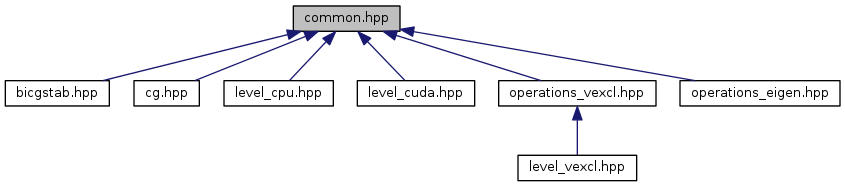
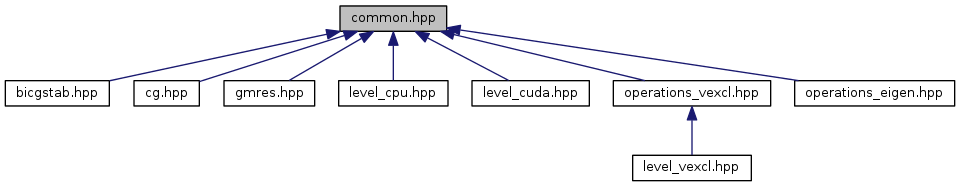
doc update

diff --git a/files.html b/files.html
@@ -54,21 +54,22 @@
 <tr id="row_3_"><td class="entry"><img src="ftv2node.png" alt="o" width="16" height="22" /><img src="ftv2doc.png" alt="*" width="24" height="22" /><a class="el" href="bicgstab_8hpp.html" target="_self">bicgstab.hpp</a></td><td class="desc">Stabilized BiConjugate Gradient method</td></tr>
 <tr id="row_4_" class="even"><td class="entry"><img src="ftv2node.png" alt="o" width="16" height="22" /><img src="ftv2doc.png" alt="*" width="24" height="22" /><a class="el" href="cg_8hpp.html" target="_self">cg.hpp</a></td><td class="desc">Conjugate Gradient method</td></tr>
 <tr id="row_5_"><td class="entry"><img src="ftv2node.png" alt="o" width="16" height="22" /><img src="ftv2doc.png" alt="*" width="24" height="22" /><a class="el" href="common_8hpp.html" target="_self">common.hpp</a></td><td class="desc">Common definitions for amgcl</td></tr>
-<tr id="row_6_" class="even"><td class="entry"><img src="ftv2node.png" alt="o" width="16" height="22" /><img src="ftv2doc.png" alt="*" width="24" height="22" /><a class="el" href="interp__aggr_8hpp.html" target="_self">interp_aggr.hpp</a></td><td class="desc">Aggregates-based interpolation scheme</td></tr>
-<tr id="row_7_"><td class="entry"><img src="ftv2node.png" alt="o" width="16" height="22" /><img src="ftv2doc.png" alt="*" width="24" height="22" /><a class="el" href="interp__classic_8hpp.html" target="_self">interp_classic.hpp</a></td><td class="desc">Direct interpolation scheme based on <a class="el" href="index.html#Stuben_1999">Stuben (1999)</a></td></tr>
-<tr id="row_8_" class="even"><td class="entry"><img src="ftv2node.png" alt="o" width="16" height="22" /><img src="ftv2doc.png" alt="*" width="24" height="22" /><a class="el" href="interp__sa__emin_8hpp.html" target="_self">interp_sa_emin.hpp</a></td><td class="desc">Interpolation scheme based on smoothed aggregation with energy minimization</td></tr>
-<tr id="row_9_"><td class="entry"><img src="ftv2node.png" alt="o" width="16" height="22" /><img src="ftv2doc.png" alt="*" width="24" height="22" /><a class="el" href="interp__smoothed__aggr_8hpp.html" target="_self">interp_smoothed_aggr.hpp</a></td><td class="desc">Interpolation scheme based on smoothed aggregation</td></tr>
-<tr id="row_10_" class="even"><td class="entry"><img src="ftv2node.png" alt="o" width="16" height="22" /><img src="ftv2doc.png" alt="*" width="24" height="22" /><a class="el" href="level__cpu_8hpp.html" target="_self">level_cpu.hpp</a></td><td class="desc">Level of an AMG hierarchy for use with arrays located in main (CPU) memory</td></tr>
-<tr id="row_11_"><td class="entry"><img src="ftv2node.png" alt="o" width="16" height="22" /><img src="ftv2doc.png" alt="*" width="24" height="22" /><a class="el" href="level__cuda_8hpp.html" target="_self">level_cuda.hpp</a></td><td class="desc">Level of an AMG hierarchy for use with Thrust/CUSPARSE combination. Only supports standalone solution for now</td></tr>
-<tr id="row_12_" class="even"><td class="entry"><img src="ftv2node.png" alt="o" width="16" height="22" /><img src="ftv2doc.png" alt="*" width="24" height="22" /><a class="el" href="level__params_8hpp.html" target="_self">level_params.hpp</a></td><td class="desc">Common parameters for level construction/solution</td></tr>
-<tr id="row_13_"><td class="entry"><img src="ftv2node.png" alt="o" width="16" height="22" /><img src="ftv2doc.png" alt="*" width="24" height="22" /><a class="el" href="level__vexcl_8hpp.html" target="_self">level_vexcl.hpp</a></td><td class="desc">Level of an AMG hierarchy for use with VexCL vectors</td></tr>
-<tr id="row_14_" class="even"><td class="entry"><img src="ftv2node.png" alt="o" width="16" height="22" /><img src="ftv2doc.png" alt="*" width="24" height="22" /><a class="el" href="operations__eigen_8hpp.html" target="_self">operations_eigen.hpp</a></td><td class="desc">Adaptors for Eigen types</td></tr>
-<tr id="row_15_"><td class="entry"><img src="ftv2node.png" alt="o" width="16" height="22" /><img src="ftv2doc.png" alt="*" width="24" height="22" /><a class="el" href="operations__vexcl_8hpp.html" target="_self">operations_vexcl.hpp</a></td><td class="desc">Adaptors for VexCL types</td></tr>
-<tr id="row_16_" class="even"><td class="entry"><img src="ftv2node.png" alt="o" width="16" height="22" /><img src="ftv2doc.png" alt="*" width="24" height="22" /><a class="el" href="operations__viennacl_8hpp.html" target="_self">operations_viennacl.hpp</a></td><td class="desc">Adaptors for ViennaCL types</td></tr>
-<tr id="row_17_"><td class="entry"><img src="ftv2node.png" alt="o" width="16" height="22" /><img src="ftv2doc.png" alt="*" width="24" height="22" /><a class="el" href="profiler_8hpp.html" target="_self">profiler.hpp</a></td><td class="desc">Profiler class</td></tr>
-<tr id="row_18_" class="even"><td class="entry"><img src="ftv2node.png" alt="o" width="16" height="22" /><img src="ftv2doc.png" alt="*" width="24" height="22" /><a class="el" href="spai_8hpp.html" target="_self">spai.hpp</a></td><td class="desc">Compute Sparse Approximate Inverse for a given matrix</td></tr>
-<tr id="row_19_"><td class="entry"><img src="ftv2node.png" alt="o" width="16" height="22" /><img src="ftv2doc.png" alt="*" width="24" height="22" /><a class="el" href="spmat_8hpp.html" target="_self">spmat.hpp</a></td><td class="desc">A set of routines to work with sparse matrices in CRS format</td></tr>
-<tr id="row_20_" class="even"><td class="entry"><img src="ftv2lastnode.png" alt="\" width="16" height="22" /><img src="ftv2doc.png" alt="*" width="24" height="22" /><a class="el" href="tictoc_8hpp.html" target="_self">tictoc.hpp</a></td><td class="desc">TIC and TOC macros for internal profiling</td></tr>
+<tr id="row_6_" class="even"><td class="entry"><img src="ftv2node.png" alt="o" width="16" height="22" /><img src="ftv2doc.png" alt="*" width="24" height="22" /><a class="el" href="gmres_8hpp.html" target="_self">gmres.hpp</a></td><td class="desc">GMRES method</td></tr>
+<tr id="row_7_"><td class="entry"><img src="ftv2node.png" alt="o" width="16" height="22" /><img src="ftv2doc.png" alt="*" width="24" height="22" /><a class="el" href="interp__aggr_8hpp.html" target="_self">interp_aggr.hpp</a></td><td class="desc">Aggregates-based interpolation scheme</td></tr>
+<tr id="row_8_" class="even"><td class="entry"><img src="ftv2node.png" alt="o" width="16" height="22" /><img src="ftv2doc.png" alt="*" width="24" height="22" /><a class="el" href="interp__classic_8hpp.html" target="_self">interp_classic.hpp</a></td><td class="desc">Direct interpolation scheme based on <a class="el" href="index.html#Stuben_1999">Stuben (1999)</a></td></tr>
+<tr id="row_9_"><td class="entry"><img src="ftv2node.png" alt="o" width="16" height="22" /><img src="ftv2doc.png" alt="*" width="24" height="22" /><a class="el" href="interp__sa__emin_8hpp.html" target="_self">interp_sa_emin.hpp</a></td><td class="desc">Interpolation scheme based on smoothed aggregation with energy minimization</td></tr>
+<tr id="row_10_" class="even"><td class="entry"><img src="ftv2node.png" alt="o" width="16" height="22" /><img src="ftv2doc.png" alt="*" width="24" height="22" /><a class="el" href="interp__smoothed__aggr_8hpp.html" target="_self">interp_smoothed_aggr.hpp</a></td><td class="desc">Interpolation scheme based on smoothed aggregation</td></tr>
+<tr id="row_11_"><td class="entry"><img src="ftv2node.png" alt="o" width="16" height="22" /><img src="ftv2doc.png" alt="*" width="24" height="22" /><a class="el" href="level__cpu_8hpp.html" target="_self">level_cpu.hpp</a></td><td class="desc">Level of an AMG hierarchy for use with arrays located in main (CPU) memory</td></tr>
+<tr id="row_12_" class="even"><td class="entry"><img src="ftv2node.png" alt="o" width="16" height="22" /><img src="ftv2doc.png" alt="*" width="24" height="22" /><a class="el" href="level__cuda_8hpp.html" target="_self">level_cuda.hpp</a></td><td class="desc">Level of an AMG hierarchy for use with Thrust/CUSPARSE combination. Only supports standalone solution for now</td></tr>
+<tr id="row_13_"><td class="entry"><img src="ftv2node.png" alt="o" width="16" height="22" /><img src="ftv2doc.png" alt="*" width="24" height="22" /><a class="el" href="level__params_8hpp.html" target="_self">level_params.hpp</a></td><td class="desc">Common parameters for level construction/solution</td></tr>
+<tr id="row_14_" class="even"><td class="entry"><img src="ftv2node.png" alt="o" width="16" height="22" /><img src="ftv2doc.png" alt="*" width="24" height="22" /><a class="el" href="level__vexcl_8hpp.html" target="_self">level_vexcl.hpp</a></td><td class="desc">Level of an AMG hierarchy for use with VexCL vectors</td></tr>
+<tr id="row_15_"><td class="entry"><img src="ftv2node.png" alt="o" width="16" height="22" /><img src="ftv2doc.png" alt="*" width="24" height="22" /><a class="el" href="operations__eigen_8hpp.html" target="_self">operations_eigen.hpp</a></td><td class="desc">Adaptors for Eigen types</td></tr>
+<tr id="row_16_" class="even"><td class="entry"><img src="ftv2node.png" alt="o" width="16" height="22" /><img src="ftv2doc.png" alt="*" width="24" height="22" /><a class="el" href="operations__vexcl_8hpp.html" target="_self">operations_vexcl.hpp</a></td><td class="desc">Adaptors for VexCL types</td></tr>
+<tr id="row_17_"><td class="entry"><img src="ftv2node.png" alt="o" width="16" height="22" /><img src="ftv2doc.png" alt="*" width="24" height="22" /><a class="el" href="operations__viennacl_8hpp.html" target="_self">operations_viennacl.hpp</a></td><td class="desc">Adaptors for ViennaCL types</td></tr>
+<tr id="row_18_" class="even"><td class="entry"><img src="ftv2node.png" alt="o" width="16" height="22" /><img src="ftv2doc.png" alt="*" width="24" height="22" /><a class="el" href="profiler_8hpp.html" target="_self">profiler.hpp</a></td><td class="desc">Profiler class</td></tr>
+<tr id="row_19_"><td class="entry"><img src="ftv2node.png" alt="o" width="16" height="22" /><img src="ftv2doc.png" alt="*" width="24" height="22" /><a class="el" href="spai_8hpp.html" target="_self">spai.hpp</a></td><td class="desc">Compute Sparse Approximate Inverse for a given matrix</td></tr>
+<tr id="row_20_" class="even"><td class="entry"><img src="ftv2node.png" alt="o" width="16" height="22" /><img src="ftv2doc.png" alt="*" width="24" height="22" /><a class="el" href="spmat_8hpp.html" target="_self">spmat.hpp</a></td><td class="desc">A set of routines to work with sparse matrices in CRS format</td></tr>
+<tr id="row_21_"><td class="entry"><img src="ftv2lastnode.png" alt="\" width="16" height="22" /><img src="ftv2doc.png" alt="*" width="24" height="22" /><a class="el" href="tictoc_8hpp.html" target="_self">tictoc.hpp</a></td><td class="desc">TIC and TOC macros for internal profiling</td></tr>
 </table>
 </div><!-- directory -->
 </div><!-- contents -->

diff --git a/gmres_8hpp.html b/gmres_8hpp.html
@@ -3,7 +3,7 @@
 <head>
 <meta http-equiv="Content-Type" content="text/xhtml;charset=UTF-8"/>
 <meta http-equiv="X-UA-Compatible" content="IE=9"/>
-<title>amgcl: cg.hpp File Reference</title>
+<title>amgcl: gmres.hpp File Reference</title>
 <link href="tabs.css" rel="stylesheet" type="text/css"/>
 <script type="text/javascript" src="jquery.js"></script>
 <script type="text/javascript" src="dynsections.js"></script>
@@ -50,22 +50,24 @@
 <a href="#namespaces">Namespaces</a> &#124;
 <a href="#func-members">Functions</a>  </div>
   <div class="headertitle">
-<div class="title">cg.hpp File Reference</div>  </div>
+<div class="title">gmres.hpp File Reference</div>  </div>
 </div><!--header-->
 <div class="contents">
 
-<p>Conjugate Gradient method.  
+<p>GMRES method.  
 <a href="#details">More...</a></p>
 <div class="textblock"><code>#include &lt;utility&gt;</code><br/>
+<code>#include &lt;algorithm&gt;</code><br/>
+<code>#include &lt;boost/array.hpp&gt;</code><br/>
 <code>#include &lt;<a class="el" href="common_8hpp.html">amgcl/common.hpp</a>&gt;</code><br/>
 </div><div class="textblock"><div id="dynsection-0" onclick="return toggleVisibility(this)" class="dynheader closed" style="cursor:pointer;">
-  <img id="dynsection-0-trigger" src="closed.png" alt="+"/> Include dependency graph for cg.hpp:</div>
+  <img id="dynsection-0-trigger" src="closed.png" alt="+"/> Include dependency graph for gmres.hpp:</div>
 <div id="dynsection-0-summary" class="dynsummary" style="display:block;">
 </div>
 <div id="dynsection-0-content" class="dyncontent" style="display:none;">
-<div class="center"><img src="cg_8hpp__incl.png" border="0" usemap="#cg_8hpp" alt=""/></div>
-<map name="cg_8hpp" id="cg_8hpp">
-<area shape="rect" id="node5" href="common_8hpp.html" title="Common definitions for amgcl." alt="" coords="86,80,236,107"/></map>
+<div class="center"><img src="gmres_8hpp__incl.png" border="0" usemap="#gmres_8hpp" alt=""/></div>
+<map name="gmres_8hpp" id="gmres_8hpp">
+<area shape="rect" id="node9" href="common_8hpp.html" title="Common definitions for amgcl." alt="" coords="338,80,488,107"/></map>
 </div>
 </div><table class="memberdecls">
 <tr class="heading"><td colspan="2"><h2 class="groupheader"><a name="namespaces"></a>
@@ -76,14 +78,26 @@ Namespaces</h2></td></tr>
 </table><table class="memberdecls">
 <tr class="heading"><td colspan="2"><h2 class="groupheader"><a name="func-members"></a>
 Functions</h2></td></tr>
-<tr class="memitem:gac8e0c3c1ec4fdac25537aa7d20c008fd"><td class="memTemplParams" colspan="2">template&lt;class matrix , class vector , class precond &gt; </td></tr>
-<tr class="memitem:gac8e0c3c1ec4fdac25537aa7d20c008fd"><td class="memTemplItemLeft" align="right" valign="top">std::pair&lt; int, typename <br class="typebreak"/>
-value_type&lt; vector &gt;::type &gt;&#160;</td><td class="memTemplItemRight" valign="bottom"><a class="el" href="group__iterative.html#gac8e0c3c1ec4fdac25537aa7d20c008fd">amgcl::solve</a> (const matrix &amp;A, const vector &amp;rhs, const precond &amp;P, vector &amp;x, cg_tag prm=cg_tag())</td></tr>
-<tr class="memdesc:gac8e0c3c1ec4fdac25537aa7d20c008fd"><td class="mdescLeft">&#160;</td><td class="mdescRight">Conjugate Gradient method.  <a href="group__iterative.html#gac8e0c3c1ec4fdac25537aa7d20c008fd"></a><br/></td></tr>
-<tr class="separator:gac8e0c3c1ec4fdac25537aa7d20c008fd"><td class="memSeparator" colspan="2">&#160;</td></tr>
+<tr class="memitem:a8e76dd3073249343cf6d710dbeb41737"><td class="memTemplParams" colspan="2"><a class="anchor" id="a8e76dd3073249343cf6d710dbeb41737"></a>
+template&lt;typename value_t &gt; </td></tr>
+<tr class="memitem:a8e76dd3073249343cf6d710dbeb41737"><td class="memTemplItemLeft" align="right" valign="top">void&#160;</td><td class="memTemplItemRight" valign="bottom"><b>amgcl::gmres::apply_plane_rotation</b> (value_t &amp;dx, value_t &amp;dy, value_t cs, value_t sn)</td></tr>
+<tr class="separator:a8e76dd3073249343cf6d710dbeb41737"><td class="memSeparator" colspan="2">&#160;</td></tr>
+<tr class="memitem:a19f01f3c965331090757d14db060d7f8"><td class="memTemplParams" colspan="2"><a class="anchor" id="a19f01f3c965331090757d14db060d7f8"></a>
+template&lt;typename value_t &gt; </td></tr>
+<tr class="memitem:a19f01f3c965331090757d14db060d7f8"><td class="memTemplItemLeft" align="right" valign="top">void&#160;</td><td class="memTemplItemRight" valign="bottom"><b>amgcl::gmres::generate_plane_rotation</b> (value_t dx, value_t dy, value_t &amp;cs, value_t &amp;sn)</td></tr>
+<tr class="separator:a19f01f3c965331090757d14db060d7f8"><td class="memSeparator" colspan="2">&#160;</td></tr>
+<tr class="memitem:a57d496e8d0d1149fb1ed25f4b593c79f"><td class="memTemplParams" colspan="2"><a class="anchor" id="a57d496e8d0d1149fb1ed25f4b593c79f"></a>
+template&lt;size_t M, class vector &gt; </td></tr>
+<tr class="memitem:a57d496e8d0d1149fb1ed25f4b593c79f"><td class="memTemplItemLeft" align="right" valign="top">void&#160;</td><td class="memTemplItemRight" valign="bottom"><b>amgcl::gmres::update</b> (vector &amp;x, int k, boost::array&lt; boost::array&lt; typename value_type&lt; vector &gt;::type, M &gt;, M+1 &gt; &amp;h, const boost::array&lt; typename value_type&lt; vector &gt;::type, M+1 &gt; &amp;s, const boost::array&lt; vector, M+1 &gt; &amp;v, boost::array&lt; typename value_type&lt; vector &gt;::type, M+1 &gt; &amp;y)</td></tr>
+<tr class="separator:a57d496e8d0d1149fb1ed25f4b593c79f"><td class="memSeparator" colspan="2">&#160;</td></tr>
+<tr class="memitem:ga9854844427f73aac87036586dc7c62d0"><td class="memTemplParams" colspan="2">template&lt;size_t M, class matrix , class vector , class precond &gt; </td></tr>
+<tr class="memitem:ga9854844427f73aac87036586dc7c62d0"><td class="memTemplItemLeft" align="right" valign="top">std::pair&lt; int, typename <br class="typebreak"/>
+value_type&lt; vector &gt;::type &gt;&#160;</td><td class="memTemplItemRight" valign="bottom"><a class="el" href="group__iterative.html#ga9854844427f73aac87036586dc7c62d0">amgcl::solve</a> (const matrix &amp;A, const vector &amp;rhs, const precond &amp;P, vector &amp;x, gmres_tag&lt; M &gt; prm=gmres_tag&lt; M &gt;())</td></tr>
+<tr class="memdesc:ga9854844427f73aac87036586dc7c62d0"><td class="mdescLeft">&#160;</td><td class="mdescRight">GMRES method.  <a href="group__iterative.html#ga9854844427f73aac87036586dc7c62d0"></a><br/></td></tr>
+<tr class="separator:ga9854844427f73aac87036586dc7c62d0"><td class="memSeparator" colspan="2">&#160;</td></tr>
 </table>
 <a name="details" id="details"></a><h2 class="groupheader">Detailed Description</h2>
-<div class="textblock"><p>Conjugate Gradient method. </p>
+<div class="textblock"><p>GMRES method. </p>
 <dl class="section author"><dt>Author</dt><dd>Denis Demidov <a href="#" onclick="location.href='mai'+'lto:'+'dde'+'mi'+'dov'+'@k'+'su.'+'ru'; return false;">ddemi<span style="display: none;">.nosp@m.</span>dov@<span style="display: none;">.nosp@m.</span>ksu.r<span style="display: none;">.nosp@m.</span>u</a> Implementation is based on <a class="el" href="index.html#Templates_1994">Barrett (1994)</a> </dd></dl>
 </div></div><!-- contents -->
 <!-- start footer part -->

diff --git a/common_8hpp.html b/common_8hpp.html
@@ -65,7 +65,7 @@
 <div id="dynsection-0-content" class="dyncontent" style="display:none;">
 <div class="center"><img src="common_8hpp__dep__incl.png" border="0" usemap="#common_8hppdep" alt=""/></div>
 <map name="common_8hppdep" id="common_8hppdep">
-<area shape="rect" id="node3" href="bicgstab_8hpp.html" title="Stabilized BiConjugate Gradient method." alt="" coords="5,80,109,107"/><area shape="rect" id="node5" href="cg_8hpp.html" title="Conjugate Gradient method." alt="" coords="134,80,199,107"/><area shape="rect" id="node7" href="level__cpu_8hpp.html" title="Level of an AMG hierarchy for use with arrays located in main (CPU) memory." alt="" coords="224,80,333,107"/><area shape="rect" id="node9" href="level__cuda_8hpp.html" title="Level of an AMG hierarchy for use with Thrust/CUSPARSE combination. Only supports standalone solution..." alt="" coords="357,80,473,107"/><area shape="rect" id="node11" href="operations__vexcl_8hpp.html" title="Adaptors for VexCL types." alt="" coords="499,80,656,107"/><area shape="rect" id="node15" href="operations__eigen_8hpp.html" title="Adaptors for Eigen types." alt="" coords="680,80,839,107"/><area shape="rect" id="node13" href="level__vexcl_8hpp.html" title="Level of an AMG hierarchy for use with VexCL vectors." alt="" coords="518,155,636,181"/></map>
+<area shape="rect" id="node3" href="bicgstab_8hpp.html" title="Stabilized BiConjugate Gradient method." alt="" coords="5,80,109,107"/><area shape="rect" id="node5" href="cg_8hpp.html" title="Conjugate Gradient method." alt="" coords="134,80,199,107"/><area shape="rect" id="node7" href="gmres_8hpp.html" title="GMRES method." alt="" coords="224,80,315,107"/><area shape="rect" id="node9" href="level__cpu_8hpp.html" title="Level of an AMG hierarchy for use with arrays located in main (CPU) memory." alt="" coords="339,80,448,107"/><area shape="rect" id="node11" href="level__cuda_8hpp.html" title="Level of an AMG hierarchy for use with Thrust/CUSPARSE combination. Only supports standalone solution..." alt="" coords="472,80,588,107"/><area shape="rect" id="node13" href="operations__vexcl_8hpp.html" title="Adaptors for VexCL types." alt="" coords="613,80,771,107"/><area shape="rect" id="node17" href="operations__eigen_8hpp.html" title="Adaptors for Eigen types." alt="" coords="795,80,953,107"/><area shape="rect" id="node15" href="level__vexcl_8hpp.html" title="Level of an AMG hierarchy for use with VexCL vectors." alt="" coords="633,155,751,181"/></map>
 </div>
 </div><table class="memberdecls">
 <tr class="heading"><td colspan="2"><h2 class="groupheader"><a name="nested-classes"></a>

diff --git a/dir_5f9db31345e724fd6186f75d493a100c.html b/dir_5f9db31345e724fd6186f75d493a100c.html
@@ -74,7 +74,8 @@ Files</h2></td></tr>
 <tr class="memitem:common_8hpp"><td class="memItemLeft" align="right" valign="top">file &#160;</td><td class="memItemRight" valign="bottom"><a class="el" href="common_8hpp.html">common.hpp</a></td></tr>
 <tr class="memdesc:common_8hpp"><td class="mdescLeft">&#160;</td><td class="mdescRight">Common definitions for amgcl. <br/></td></tr>
 <tr class="separator:"><td class="memSeparator" colspan="2">&#160;</td></tr>
-<tr class="memitem:gmres_8hpp"><td class="memItemLeft" align="right" valign="top">file &#160;</td><td class="memItemRight" valign="bottom"><b>gmres.hpp</b></td></tr>
+<tr class="memitem:gmres_8hpp"><td class="memItemLeft" align="right" valign="top">file &#160;</td><td class="memItemRight" valign="bottom"><a class="el" href="gmres_8hpp.html">gmres.hpp</a></td></tr>
+<tr class="memdesc:gmres_8hpp"><td class="mdescLeft">&#160;</td><td class="mdescRight">GMRES method. <br/></td></tr>
 <tr class="separator:"><td class="memSeparator" colspan="2">&#160;</td></tr>
 <tr class="memitem:interp__aggr_8hpp"><td class="memItemLeft" align="right" valign="top">file &#160;</td><td class="memItemRight" valign="bottom"><a class="el" href="interp__aggr_8hpp.html">interp_aggr.hpp</a></td></tr>
 <tr class="memdesc:interp__aggr_8hpp"><td class="mdescLeft">&#160;</td><td class="mdescRight">Aggregates-based interpolation scheme. <br/></td></tr>
